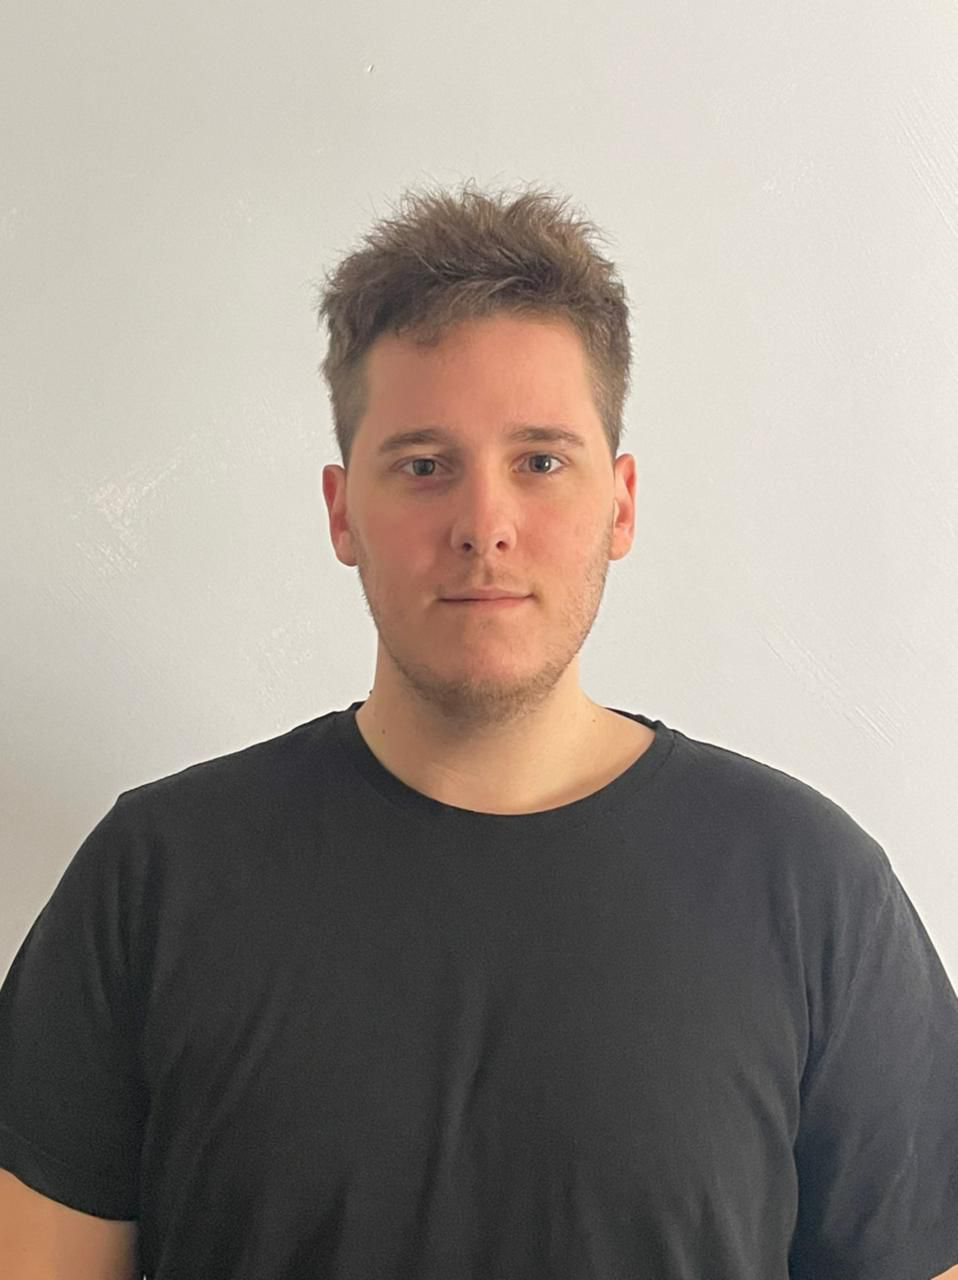
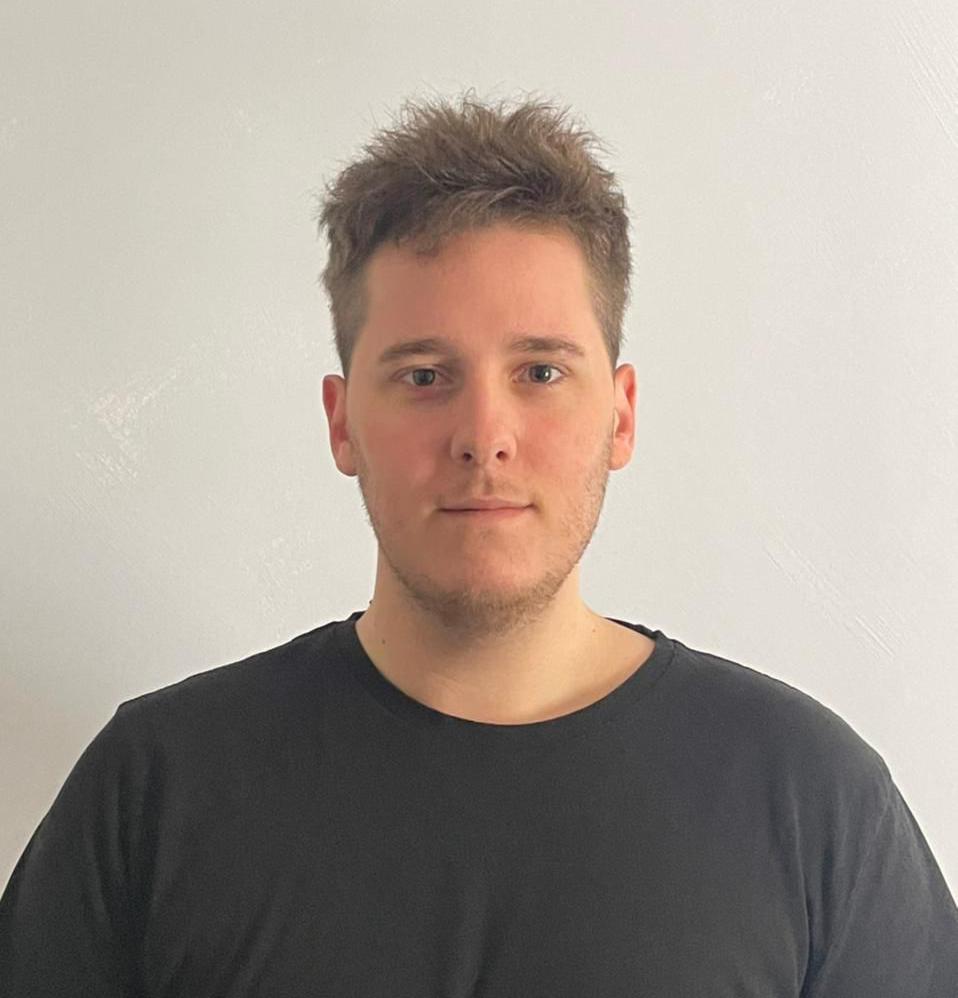
Cambiamos tipografía y background color de toda la app

diff --git a/styles/Home.module.css b/styles/Home.module.css
@@ -4,22 +4,22 @@
   background:   
       linear-gradient(
         to bottom,
-        hsl(60, 46.97%, 74.12%) 0%,
-        hsl(60, 46.34%, 73.81%) 8.1%,
-        hsl(60, 44.62%, 72.94%) 15.5%,
-        hsl(60, 42.15%, 71.58%) 22.5%,
-        hsl(60, 39.25%, 69.79%) 29%,
-        hsl(60, 36.19%, 67.62%) 35.3%,
-        hsl(60, 33.19%, 65.14%) 41.2%,
-        hsl(60, 30.37%, 62.4%) 47.1%,
-        hsl(60, 27.83%, 59.49%) 52.9%,
-        hsl(60, 25.62%, 56.48%) 58.8%,
-        hsl(60, 23.75%, 53.47%) 64.7%,
-        hsl(60, 22.23%, 50.59%) 71%,
-        hsl(60, 22.83%, 47.99%) 77.5%,
-        hsl(60, 23.89%, 45.87%) 84.5%,
-        hsl(60, 24.69%, 44.44%) 91.9%,
-        hsl(60, 25%, 43.92%) 100%
+        hsl(247.5, 14.29%, 78.04%) 0%,
+        hsl(246.53, 14.1%, 77.7%) 8.1%,
+        hsl(243.82, 13.62%, 76.75%) 15.5%,
+        hsl(239.71, 13%, 75.27%) 22.5%,
+        hsl(234.98, 13.15%, 73.1%) 29%,
+        hsl(230.43, 13.29%, 70.55%) 35.3%,
+        hsl(226.31, 13.43%, 67.73%) 41.2%,
+        hsl(222.75, 13.55%, 64.75%) 47.1%,
+        hsl(219.74, 13.65%, 61.72%) 52.9%,
+        hsl(217.25, 13.74%, 58.74%) 58.8%,
+        hsl(215.23, 13.81%, 55.92%) 64.7%,
+        hsl(213.62, 13.86%, 53.37%) 71%,
+        hsl(212.4, 13.91%, 51.2%) 77.5%,
+        hsl(211.53, 14.21%, 49.52%) 84.5%,
+        hsl(210.99, 14.86%, 48.43%) 91.9%,
+        hsl(210.81, 15.1%, 48.04%) 100%
       );
     
 
@@ -28,23 +28,23 @@
   padding: 0 2rem;
   background: 
         linear-gradient(
-          to top,
-          hsl(60, 46.97%, 74.12%) 0%,
-          hsl(60, 46.34%, 73.81%) 8.1%,
-          hsl(60, 44.62%, 72.94%) 15.5%,
-          hsl(60, 42.15%, 71.58%) 22.5%,
-          hsl(60, 39.25%, 69.79%) 29%,
-          hsl(60, 36.19%, 67.62%) 35.3%,
-          hsl(60, 33.19%, 65.14%) 41.2%,
-          hsl(60, 30.37%, 62.4%) 47.1%,
-          hsl(60, 27.83%, 59.49%) 52.9%,
-          hsl(60, 25.62%, 56.48%) 58.8%,
-          hsl(60, 23.75%, 53.47%) 64.7%,
-          hsl(60, 22.23%, 50.59%) 71%,
-          hsl(60, 22.83%, 47.99%) 77.5%,
-          hsl(60, 23.89%, 45.87%) 84.5%,
-          hsl(60, 24.69%, 44.44%) 91.9%,
-          hsl(60, 25%, 43.92%) 100%
+          to bottom,
+          hsl(210.81, 15.1%, 48.04%) 0%,
+          hsl(210.99, 14.86%, 48.43%)  8.1%,
+          hsl(211.53, 14.21%, 49.52%) 15.5%,
+          hsl(212.4, 13.91%, 51.2%)  22.5%,
+          hsl(213.62, 13.86%, 53.37%) 29%,
+          hsl(215.23, 13.81%, 55.92%)  35.3%,
+          hsl(217.25, 13.74%, 58.74%) 41.2%,
+          hsl(219.74, 13.65%, 61.72%)  47.1%,
+          hsl(222.75, 13.55%, 64.75%) 52.9%,
+          hsl(226.31, 13.43%, 67.73%) 58.8%,
+          hsl(230.43, 13.29%, 70.55%) 64.7%,
+          hsl(234.98, 13.15%, 73.1%) 71%,
+          hsl(239.71, 13%, 75.27%) 77.5%,
+          hsl(243.82, 13.62%, 76.75%)  84.5%,
+          hsl(246.53, 14.1%, 77.7%) 91.9%,
+          hsl(247.5, 14.29%, 78.04%) 100%
         );
 
 }
@@ -139,14 +139,14 @@
 }
 
 .h1{
-  font-family: 'Cinzel', serif;
+  font-family: 'Mukta Mahee', sans-serif;
   font-size: 48px;
   color: #141414;
   filter: drop-shadow(1.5px 1.5px 1px #262626);
 }
 
 .h2{
-  font-family: 'Cinzel', serif;
+  font-family: 'Mukta Mahee', sans-serif;
   font-size: 35px;
   color: #141414;
   filter: drop-shadow(1.5px 1.5px 1px #262626);
@@ -154,7 +154,7 @@
 }
 
 .h3{
-  font-family: 'Cinzel', serif;
+  font-family: 'Mukta Mahee', sans-serif;
   font-size: 28px;
   color: #141414;
   filter: drop-shadow(1px 1px 1px #262626);
@@ -162,7 +162,7 @@
 }
 
 .h3Presentation{
-  font-family: 'Cinzel', serif;
+  font-family: 'Mukta Mahee', sans-serif;
   font-size: 18px;
   font-weight: 600;
   color: #141414;
@@ -170,14 +170,14 @@
 }
 
 .h4{
-  font-family: 'Crimson Text', serif;
+  font-family: 'Mukta Mahee', sans-serif;
   font-size: 20px;
   color: #141414;
   margin: 0px;
 }
 
 .h4new{
-  font-family: 'Crimson Text', serif;
+  font-family: 'Mukta Mahee', sans-serif;
   font-size: 20px;
   color: #141414;
   margin: 5px;
@@ -186,7 +186,7 @@
 }
 
 .pContact{
-  font-family: 'Crimson Text', serif;
+  font-family: 'Mukta Mahee', sans-serif;
   font-size: 24px;
   color: #141414;
   margin: 5px;
@@ -212,6 +212,7 @@
   border-radius: 6px;
   box-shadow: 1px 1px 15px 2px rgb(65, 65, 61);
   margin-bottom: 15px;
+  height: auto;
 }
 
 
@@ -314,7 +315,7 @@
 }
 
 .h3Card{
-  font-family: 'Cinzel', serif;
+  font-family: 'Mukta Mahee', sans-serif; 
   font-size: 28px;
   color: #141414;
   filter: drop-shadow(0.5px 0.5px 1px #1414);
@@ -323,7 +324,7 @@
 }
 
 .pCard{
-  font-family: 'Crimson Text', serif;
+  font-family: 'Mukta Mahee', sans-serif;
   font-size: 20px;
   color: #141414;
   margin: 0;
@@ -451,7 +452,7 @@
   padding: 5px;
   width: 100%;
   color: #141414;
-  font-family: 'Crimson Text', serif;
+  font-family: 'Mukta Mahee', sans-serif;
   font-weight: 600;
 }
 .input{
@@ -460,7 +461,7 @@
   padding: 5px;
   width: 100vh;
   background-color:inherit;
-  font-family: 'Crimson Text', serif;
+  font-family: 'Mukta Mahee', sans-serif;
   font-size: 20px;
   color: #141414;
   margin: 5px;
@@ -477,7 +478,7 @@
 
 .buttonContacto{
   background-color:inherit;
-  font-family: 'Crimson Text', serif;
+  font-family: 'Mukta Mahee', sans-serif;
   font-weight: 900;
   cursor: pointer;
   padding: 5px;
@@ -506,7 +507,7 @@
 
 
 .pFooter{
-  font-family: 'Crimson Text', serif;
+  font-family: 'Mukta Mahee', sans-serif;
   font-size: 20px;
   color: #141414;
   margin: 0;
@@ -657,7 +658,7 @@
       }
       
       .h1{
-        font-family: 'Cinzel', serif;
+        font-family: 'Mukta Mahee', sans-serif;
         font-size: 26px;
         text-align: center;
         color: #141414;
@@ -666,7 +667,7 @@
       }
       
       .h2{
-        font-family: 'Cinzel', serif;
+        font-family: 'Mukta Mahee', sans-serif;
         font-size: 24px;
         color: #141414;
         filter: drop-shadow(1.5px 1.5px 1px #262626);
@@ -674,7 +675,7 @@
       }
       
       .h3{
-        font-family: 'Cinzel', serif;
+        font-family: 'Mukta Mahee', sans-serif;
         font-size: 20px;
         color: #141414;
         filter: drop-shadow(1px 1px 1px #262626);
@@ -682,7 +683,7 @@
       }
       
       .h3Presentation{
-        font-family: 'Cinzel', serif;
+        font-family: 'Mukta Mahee', sans-serif;
         font-size: 16px;
         font-weight: 600;
         color: #141414;
@@ -690,14 +691,14 @@
       }
       
       .h4{
-        font-family: 'Crimson Text', serif;
+        font-family: 'Mukta Mahee', sans-serif;
         font-size: 14px;
         color: #141414;
         margin: 0px;
       }
       
       .h4new{
-        font-family: 'Crimson Text', serif;
+        font-family: 'Mukta Mahee', sans-serif;
         font-size: 14px;
         color: #141414;
         margin: 5px;
@@ -706,7 +707,7 @@
       }
       
       .pContact{
-        font-family: 'Crimson Text', serif;
+        font-family: 'Mukta Mahee', sans-serif;
         font-size: 18px;
         color: #141414;
         margin: 0px;
@@ -844,7 +845,8 @@
       }
       
       .h3Card{
-        font-family: 'Cinzel', serif;
+        /* font-family: 'Cinzel', serif; */
+        font-family: 'Mukta Mahee', sans-serif;
         font-size: 22px;
         color: #141414;
         filter: drop-shadow(0.5px 0.5px 1px #1414);
@@ -853,7 +855,7 @@
       }
       
       .pCard{
-        font-family: 'Crimson Text', serif;
+        font-family: 'Mukta Mahee', sans-serif;
         font-size: 14px;
         color: #141414;
         margin: 0;
@@ -978,7 +980,7 @@
         padding: 5px;
         width: 100%;
         color: #141414;
-        font-family: 'Crimson Text', serif;
+        font-family: 'Mukta Mahee', sans-serif;
         font-weight: 600;
       }
       .input{
@@ -987,7 +989,7 @@
         padding: 5px;
         width: 100%;
         background-color:inherit;
-        font-family: 'Crimson Text', serif;
+        font-family: 'Mukta Mahee', sans-serif;
         font-size: 16px;
         color: #141414;
         margin: 2px;
@@ -1004,7 +1006,7 @@
       
       .buttonContacto{
         background-color:inherit;
-        font-family: 'Crimson Text', serif;
+        font-family: 'Mukta Mahee', sans-serif;
         font-weight: 900;
         cursor: pointer;
         padding: 5px;
@@ -1027,7 +1029,7 @@
       
       
       .pFooter{
-        font-family: 'Crimson Text', serif;
+        font-family: 'Mukta Mahee', sans-serif;
         font-size: 18px;
         color: #141414;
         margin: 0;

diff --git a/components/presentation/Presentation.jsx b/components/presentation/Presentation.jsx
@@ -10,7 +10,7 @@ function Presentation() {
 
    <div className={styles.divPresentation}>
      <div className={styles.divStart}>
-        <Image src='/fotocv.png' alt='img cv' priority={true} width={250} height={300} className={styles.fotoCv}/>
+        <Image src='/fotocv2.png' alt='img cv' priority={true} width={220} height={280} className={styles.fotoCv}/>
         <h3 className={styles.h3Presentation}>JUAN CRUZ CORTIÑAS</h3>
         <h3 className={styles.h3Presentation}>FRONT-END DEVELOPER</h3>
     </div>

diff --git a/components/layout/PageLayOut.jsx b/components/layout/PageLayOut.jsx
@@ -8,9 +8,11 @@ function PageLayOut({children,title}) {
 
     <div>
         <Head>
+            
             <title>{title}</title>
             <meta name="description" content="Generated by create next app" />
             <link rel="icon" href="/apertura.svg"/>
+            <link href="https://fonts.googleapis.com/css2?family=Mukta+Mahee:wght@300&display=swap" rel="stylesheet"></link>
         </Head>
         <main>
             {children}

diff --git a/styles/globals.css b/styles/globals.css
@@ -3,8 +3,9 @@ html,
 body {
   padding: 0;
   margin: 0;
-  font-family: -apple-system, BlinkMacSystemFont, Segoe UI, Roboto, Oxygen,
-    Ubuntu, Cantarell, Fira Sans, Droid Sans, Helvetica Neue, sans-serif;
+  /* font-family: -apple-system, BlinkMacSystemFont, Segoe UI, Roboto, Oxygen,
+    Ubuntu, Cantarell, Fira Sans, Droid Sans, Helvetica Neue, sans-serif; */
+    font-family: 'Mukta Mahee', sans-serif;
   scroll-behavior:smooth;
   
 }
